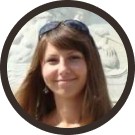
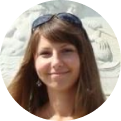
feat: first version of header

diff --git a/src/scss/main.scss b/src/scss/main.scss
@@ -22,8 +22,9 @@ h1, h2, h3 {
 .main {
 
   background: linear-gradient(180deg, $aquamarine-dark 0%, $brown 100%);
+  // background: $brown;
+
   position: relative;
-  z-index: -2;
   display: grid;
   grid-template-areas:
     "about"
@@ -35,22 +36,24 @@ h1, h2, h3 {
 
 .about {
   grid-area: about;
+  padding: 102px;
   color: #FFF;
   max-width: 1440px;
   width: 100%;
-  
+  height: fit-content;
   &__background-photo {
     position: absolute;
-    z-index: -1;
+    background-image: initial;
     margin: 1rem auto;
     left: 0;
     right: 0;
+
   }
   &__content {
     display: flex;
     flex-direction: column;
     align-items: flex-start;
-    margin: 110px auto 0 128px;
+    margin: 0 auto 0 128px;
     max-width: 681px;
     font-weight: 300;
     font-size: 22px;
@@ -64,27 +67,52 @@ h1, h2, h3 {
     margin-bottom: 3rem;
   }
   &__email {
+    margin: 0;
     &>a {
     font-weight: 500;
     font-size: 22px;
     line-height: 32px;
     color: $aquamarine-light;
     text-decoration: none;
+    position: relative;
+    &::after {
+      content: " ";
+      width: -webkit-fill-available;
+      height: 2px;
+      background-color: $aquamarine-light;
+      position: absolute;
+      left: 0;
+      bottom: -.5rem;
+    }
     }
   }
   &__person {
-    max-width: 121px;
-    width:100%;
-    max-height: 121px;
-    height:100%;
-    border-radius: 50%;
+    // padding: .5rem;
     margin-bottom: 2rem;
+    position: relative;
+
+
+    &-img {
+      border: 7px solid #362D28;
+      border-radius: 50%;
+    }
+    &::before {
+      content: " ";
+      border: 7px solid #FFF;
+      border-radius: 100px;
+      position: absolute;
+      outline-offset: 20px;
+      max-width: 135px;
+      width: 100%;
+      max-height: 135px;
+      height: 100%;
+    }
   }
   &__description {
     margin-bottom: 3rem;
   }
   &__to-id {
-
+    color: $aquamarine-light;
   }
 }
 

diff --git a/src/content/index.html b/src/content/index.html
@@ -21,14 +21,17 @@
   </head>
   <body>
     <main class="main">
+      
       <!-- about -->
       <section class="about">
-        <img class="about__background-photo" src="assets/img/about-background.jpg" alt="a wooden desk with laptop, glasses, coffee and tablet on it."/>
+        <!-- <img class="about__background-photo" src="assets/img/about-background.jpg" alt="a wooden desk with laptop, glasses, coffee and tablet on it."/> -->
         <div class="about__content">
-          <img class="about__person" src="assets/img/person.png" alt="smiling Anna Mazurek."/>
+          <div class="about__person">
+          <img class="about__person-img" src="assets/img/person.png" alt="smiling Anna Mazurek."/>
+          </div>
           <h1 class="about__header">Hello! 👋 My name is Anna and I’m an aspiring Junior Frontend developer. </h1>
           <div class="about__description">
-            You might be interested in checking the list of <span class="about__to-id"><a href="#my-skills">my skills</a></span>. Don’t forget to  have a glimpse at <span class="about__to-id"><a href="#my-skills">my projects</a></span>. Currently I’m looking for a new challenges so if you have one - <span class="about__to-id"><a href="contact-me">contact me</a></span> 😊
+            You might be interested in checking the list of <a class="about__to-id" href="#my-skills">my skills</a>. Don’t forget to  have a glimpse at <a class="about__to-id" href="#my-projects">my projects</a>. Currently I’m looking for a new challenges so if you have one - <a class="about__to-id" href="#contact-me">contact me</a> 😊
           </div>
           <p class="about__email"><a href="anna.mazurek.93@gmail.com">anna.mazurek.93@gmail.com</a></p>
       </div>
